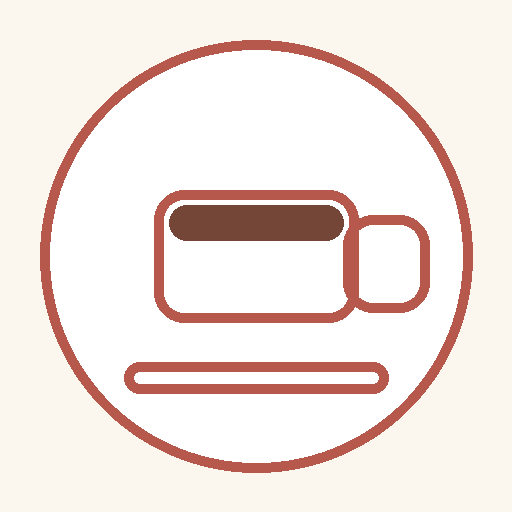
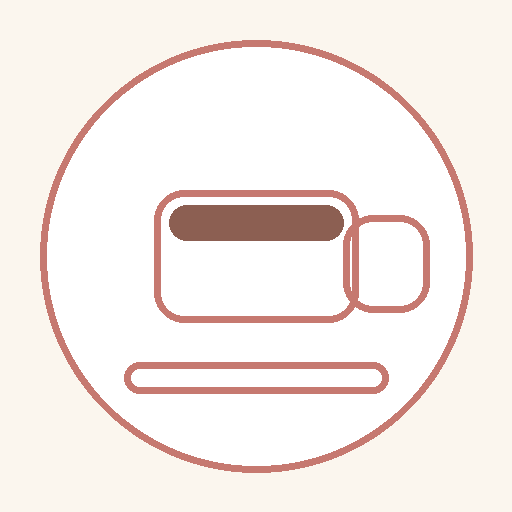
Add files via upload

Changed region(s): [[0.0625, 0.0625, 0.9375, 0.9375], [0.2812, 0.3438, 0.8438, 0.6562], [0.2188, 0.6875, 0.7812, 0.7812]]

diff --git a/index.html b/index.html
@@ -18,53 +18,53 @@
   <svg xmlns="http://www.w3.org/2000/svg" style="position:absolute;width:0;height:0;overflow:hidden" aria-hidden="true" focusable="false">
     <defs>
       <!-- Palette (referenced by inline styles) -->
-      <!-- Outline: #B7584D, Coffee: #6B3A2B, Cream: #FBF6EE, Green: #5E9C74 -->
+      <!-- Outline: #C67970, Coffee: #7A4636, Cream: #FBF6EE, Green: #77B592 -->
 
       <symbol id="icon-latteArt" viewBox="0 0 64 64">
-        <g fill="none" stroke="#B7584D" stroke-width="3.2" stroke-linecap="round" stroke-linejoin="round">
+        <g fill="none" stroke="#C67970" stroke-width="2.2" stroke-linecap="round" stroke-linejoin="round">
           <path d="M18 38c0 4 3 7 7 7h14c4 0 7-3 7-7V23H18v15z"/>
           <path d="M46 28h5c3 0 5 2 5 5s-2 5-5 5h-5"/>
           <path d="M16 46h32"/>
           <path d="M14 49h36"/>
         </g>
-        <path d="M22 26h20v6H22z" fill="#6B3A2B" opacity="0.95"/>
-        <path d="M24 29c3-3 9-3 12 0" fill="none" stroke="#FBF6EE" stroke-width="2.6" stroke-linecap="round"/>
-        <path d="M26 31c2 2 6 2 8 0" fill="none" stroke="#FBF6EE" stroke-width="2.6" stroke-linecap="round"/>
+        <path d="M22 26h20v6H22z" fill="#7A4636" opacity="0.88"/>
+        <path d="M24 29c3-3 9-3 12 0" fill="none" stroke="#FBF6EE" stroke-width="2.2" stroke-linecap="round"/>
+        <path d="M26 31c2 2 6 2 8 0" fill="none" stroke="#FBF6EE" stroke-width="2.2" stroke-linecap="round"/>
       </symbol>
 
       <symbol id="icon-icedLatte" viewBox="0 0 64 64">
-        <g fill="none" stroke="#B7584D" stroke-width="3.2" stroke-linecap="round" stroke-linejoin="round">
+        <g fill="none" stroke="#C67970" stroke-width="2.2" stroke-linecap="round" stroke-linejoin="round">
           <path d="M22 14h20l-2 38c-.1 2-1.8 3.5-3.8 3.5H27.8c-2 0-3.7-1.5-3.8-3.5L22 14z"/>
           <path d="M22 22h20"/>
           <path d="M25 18l4 4"/>
           <path d="M32 16l4 5"/>
           <path d="M39 18l-4 4"/>
         </g>
-        <path d="M25 24h14v10H25z" fill="#6B3A2B" opacity="0.9"/>
-        <path d="M25 34h14v16H25z" fill="#FBF6EE" opacity="0.85"/>
-        <path d="M26 24c3 2 9 2 12 0" fill="none" stroke="#FBF6EE" stroke-width="2.6" stroke-linecap="round"/>
+        <path d="M25 24h14v10H25z" fill="#7A4636" opacity="0.86"/>
+        <path d="M25 34h14v16H25z" fill="#FBF6EE" opacity="0.82"/>
+        <path d="M26 24c3 2 9 2 12 0" fill="none" stroke="#FBF6EE" stroke-width="2.2" stroke-linecap="round"/>
       </symbol>
 
       <symbol id="icon-cupcakeHeart" viewBox="0 0 64 64">
-        <g fill="none" stroke="#B7584D" stroke-width="3.2" stroke-linecap="round" stroke-linejoin="round">
+        <g fill="none" stroke="#C67970" stroke-width="2.2" stroke-linecap="round" stroke-linejoin="round">
           <path d="M22 30c0-8 20-8 20 0"/>
           <path d="M22 30c0 10 20 10 20 0"/>
           <path d="M24 36l-3 16h22l-3-16"/>
           <path d="M24 42h16"/>
         </g>
-        <path d="M32 33c-2-3-6-1-6 2 0 3 4 5 6 7 2-2 6-4 6-7 0-3-4-5-6-2z" fill="#FBF6EE" opacity="0.95"/>
-        <path d="M22 30c0-8 20-8 20 0" fill="#6B3A2B" opacity="0.85"/>
+        <path d="M32 33c-2-3-6-1-6 2 0 3 4 5 6 7 2-2 6-4 6-7 0-3-4-5-6-2z" fill="#FBF6EE" opacity="0.88"/>
+        <path d="M22 30c0-8 20-8 20 0" fill="#7A4636" opacity="0.82"/>
       </symbol>
 
       <symbol id="icon-espresso" viewBox="0 0 64 64">
-        <g fill="none" stroke="#B7584D" stroke-width="3.2" stroke-linecap="round" stroke-linejoin="round">
+        <g fill="none" stroke="#C67970" stroke-width="2.2" stroke-linecap="round" stroke-linejoin="round">
           <path d="M18 38c0 4 3 7 7 7h14c4 0 7-3 7-7V25H18v13z"/>
           <path d="M46 30h5c3 0 5 2 5 5s-2 5-5 5h-5"/>
           <path d="M16 46h32"/>
           <path d="M14 49h36"/>
         </g>
-        <path d="M22 27h20v6H22z" fill="#6B3A2B" opacity="0.95"/>
-        <g fill="#FBF6EE" opacity="0.95">
+        <path d="M22 27h20v6H22z" fill="#7A4636" opacity="0.88"/>
+        <g fill="#FBF6EE" opacity="0.88">
           <circle cx="26" cy="30" r="1.6"/>
           <circle cx="32" cy="29.5" r="1.6"/>
           <circle cx="38" cy="30.2" r="1.6"/>
@@ -72,20 +72,20 @@
       </symbol>
 
       <symbol id="icon-blackMug" viewBox="0 0 64 64">
-        <g fill="none" stroke="#B7584D" stroke-width="3.2" stroke-linecap="round" stroke-linejoin="round">
+        <g fill="none" stroke="#C67970" stroke-width="2.2" stroke-linecap="round" stroke-linejoin="round">
           <path d="M18 24h28v20c0 4-3 7-7 7H25c-4 0-7-3-7-7V24z"/>
           <path d="M46 30h6c3 0 5 2 5 5s-2 5-5 5h-6"/>
         </g>
-        <path d="M22 26h20v8H22z" fill="#6B3A2B" opacity="0.95"/>
+        <path d="M22 26h20v8H22z" fill="#7A4636" opacity="0.88"/>
         <path d="M18 24h28v6H18z" fill="#FBF6EE" opacity="0.25"/>
       </symbol>
 
       <symbol id="icon-icedCoffee" viewBox="0 0 64 64">
-        <g fill="none" stroke="#B7584D" stroke-width="3.2" stroke-linecap="round" stroke-linejoin="round">
+        <g fill="none" stroke="#C67970" stroke-width="2.2" stroke-linecap="round" stroke-linejoin="round">
           <path d="M24 14h16l-1.5 40c-.1 2-1.8 3.5-3.8 3.5h-5.4c-2 0-3.7-1.5-3.8-3.5L24 14z"/>
           <path d="M24 22h16"/>
         </g>
-        <path d="M26 24h12v28H26z" fill="#6B3A2B" opacity="0.96"/>
+        <path d="M26 24h12v28H26z" fill="#7A4636" opacity="0.88"/>
         <g fill="#FBF6EE" opacity="0.35">
           <circle cx="28.5" cy="32" r="1.5"/><circle cx="33" cy="35" r="1.3"/><circle cx="37" cy="30" r="1.2"/>
           <circle cx="30" cy="41" r="1.2"/><circle cx="35.5" cy="44" r="1.4"/><circle cx="37" cy="40" r="1.1"/>
@@ -93,63 +93,63 @@
       </symbol>
 
       <symbol id="icon-syrupBottle" viewBox="0 0 64 64">
-        <g fill="none" stroke="#B7584D" stroke-width="3.2" stroke-linecap="round" stroke-linejoin="round">
+        <g fill="none" stroke="#C67970" stroke-width="2.2" stroke-linecap="round" stroke-linejoin="round">
           <path d="M28 12h8v8h-8z"/>
           <path d="M24 20h16v36c0 3-2.5 6-6 6h-4c-3.5 0-6-3-6-6V20z"/>
           <path d="M27 34h10"/>
           <path d="M27 44h10"/>
         </g>
-        <path d="M26 22h12v30H26z" fill="#6B3A2B" opacity="0.18"/>
+        <path d="M26 22h12v30H26z" fill="#7A4636" opacity="0.18"/>
         <path d="M28 36h8v10h-8z" fill="#FBF6EE" opacity="0.7"/>
       </symbol>
 
       <symbol id="icon-strawDrink" viewBox="0 0 64 64">
-        <g fill="none" stroke="#B7584D" stroke-width="3.2" stroke-linecap="round" stroke-linejoin="round">
+        <g fill="none" stroke="#C67970" stroke-width="2.2" stroke-linecap="round" stroke-linejoin="round">
           <path d="M24 16h16l-2 42c-.1 2-1.8 3.5-3.8 3.5h-4.4c-2 0-3.7-1.5-3.8-3.5L24 16z"/>
           <path d="M22 16h20"/>
           <path d="M40 16l6-10"/>
         </g>
-        <path d="M26 28h12v26H26z" fill="#6B3A2B" opacity="0.9"/>
+        <path d="M26 28h12v26H26z" fill="#7A4636" opacity="0.86"/>
         <path d="M26 22h12v6H26z" fill="#FBF6EE" opacity="0.65"/>
       </symbol>
 
       <symbol id="icon-cupcakeLeaf" viewBox="0 0 64 64">
-        <g fill="none" stroke="#B7584D" stroke-width="3.2" stroke-linecap="round" stroke-linejoin="round">
+        <g fill="none" stroke="#C67970" stroke-width="2.2" stroke-linecap="round" stroke-linejoin="round">
           <path d="M22 30c0-8 20-8 20 0"/>
           <path d="M22 30c0 10 20 10 20 0"/>
           <path d="M24 36l-3 16h22l-3-16"/>
           <path d="M24 42h16"/>
         </g>
-        <path d="M22 30c0-8 20-8 20 0" fill="#6B3A2B" opacity="0.85"/>
-        <path d="M30 34c2-3 7-4 9-1-2 4-6 6-9 7-1-2-2-4 0-6z" fill="#5E9C74" opacity="0.9"/>
-        <path d="M31 36c2 1 4 2 6 1" fill="none" stroke="#B7584D" stroke-width="2.4" stroke-linecap="round"/>
+        <path d="M22 30c0-8 20-8 20 0" fill="#7A4636" opacity="0.82"/>
+        <path d="M30 34c2-3 7-4 9-1-2 4-6 6-9 7-1-2-2-4 0-6z" fill="#77B592" opacity="0.86"/>
+        <path d="M31 36c2 1 4 2 6 1" fill="none" stroke="#C67970" stroke-width="2.0" stroke-linecap="round"/>
       </symbol>
 
       <symbol id="icon-matchaCup" viewBox="0 0 64 64">
-        <g fill="none" stroke="#B7584D" stroke-width="3.2" stroke-linecap="round" stroke-linejoin="round">
+        <g fill="none" stroke="#C67970" stroke-width="2.2" stroke-linecap="round" stroke-linejoin="round">
           <path d="M18 22h28v26c0 4-3 7-7 7H25c-4 0-7-3-7-7V22z"/>
           <path d="M16 55h32"/>
         </g>
-        <path d="M22 26h20v12H22z" fill="#5E9C74" opacity="0.92"/>
-        <path d="M24 30c4-4 12-4 16 0" fill="none" stroke="#FBF6EE" stroke-width="2.6" stroke-linecap="round"/>
+        <path d="M22 26h20v12H22z" fill="#77B592" opacity="0.86"/>
+        <path d="M24 30c4-4 12-4 16 0" fill="none" stroke="#FBF6EE" stroke-width="2.2" stroke-linecap="round"/>
       </symbol>
 
       <symbol id="icon-dessertCup" viewBox="0 0 64 64">
-        <g fill="none" stroke="#B7584D" stroke-width="3.2" stroke-linecap="round" stroke-linejoin="round">
+        <g fill="none" stroke="#C67970" stroke-width="2.2" stroke-linecap="round" stroke-linejoin="round">
           <path d="M22 18h20l-2 30c-.2 3-2.6 5-5.6 5h-4.8c-3 0-5.4-2-5.6-5L22 18z"/>
           <path d="M26 26h12"/>
           <path d="M40 22l8-6"/>
         </g>
-        <path d="M25 28h14v8H25z" fill="#5E9C74" opacity="0.85"/>
+        <path d="M25 28h14v8H25z" fill="#77B592" opacity="0.82"/>
         <path d="M25 36h14v12H25z" fill="#FBF6EE" opacity="0.8"/>
       </symbol>
 
       <symbol id="icon-pourOver" viewBox="0 0 64 64">
-        <g fill="none" stroke="#B7584D" stroke-width="3.2" stroke-linecap="round" stroke-linejoin="round">
+        <g fill="none" stroke="#C67970" stroke-width="2.2" stroke-linecap="round" stroke-linejoin="round">
           <path d="M22 22h20v34c0 3-2.5 6-6 6h-8c-3.5 0-6-3-6-6V22z"/>
           <path d="M24 22l4-10h8l4 10"/>
         </g>
-        <path d="M25 44h14v12H25z" fill="#6B3A2B" opacity="0.9"/>
+        <path d="M25 44h14v12H25z" fill="#7A4636" opacity="0.86"/>
         <path d="M26 24h12v6H26z" fill="#FBF6EE" opacity="0.55"/>
       </symbol>
     </defs>

diff --git a/app.css b/app.css
@@ -4,9 +4,9 @@
 :root{
   --bg:#FBF6EE;
   --ink:#1E2630;
-  --outline:#B7584D;
-  --coffee:#6B3A2B;
-  --green:#5E9C74;
+  --outline:#C67970;
+  --coffee:#7A4636;
+  --green:#77B592;
   --card: rgba(255,255,255,0.35);
   --hair: rgba(30,38,48,0.12);
 }
